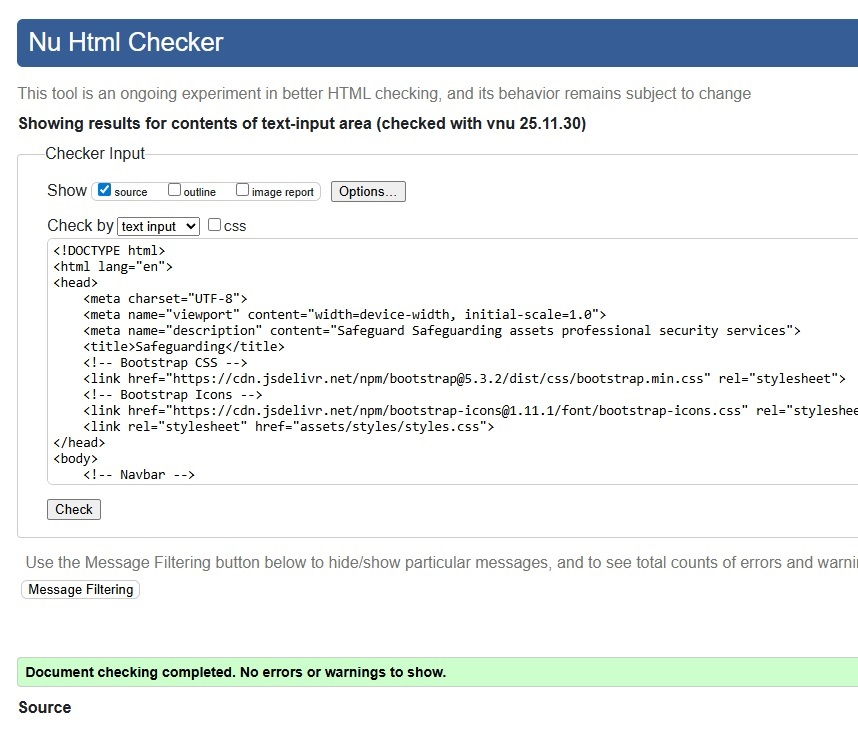
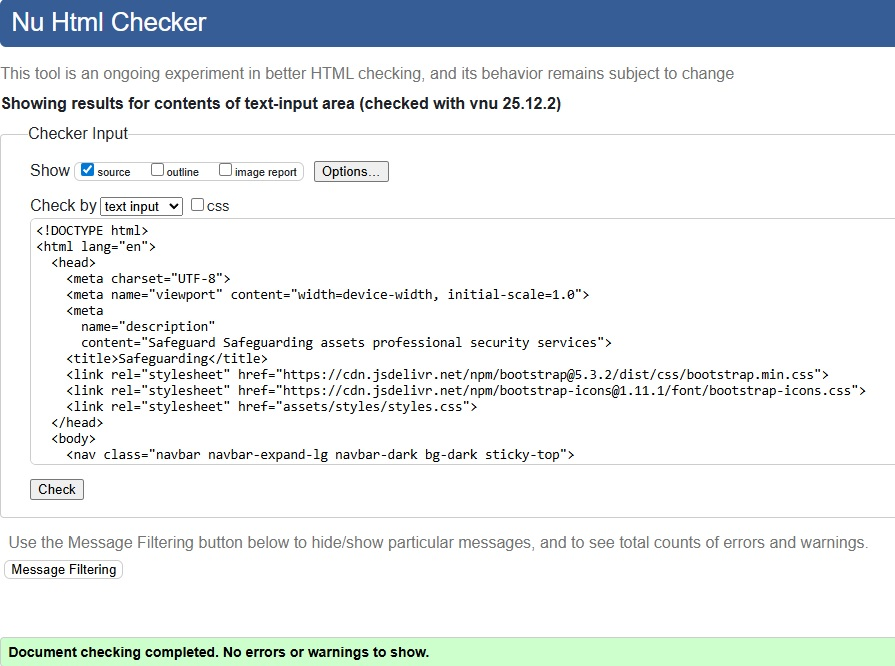
further formatting and removed the purple glow effect from the safeguarding emblem as it didn't look right

Changed region(s): [[0.0, 0.0, 1.0, 1.0], [0.8485, 0.4204, 0.9091, 0.4805], [0.7879, 0.4204, 0.8182, 0.4805]]

diff --git a/index.html b/index.html
@@ -7,11 +7,9 @@
       name="description"
       content="Safeguard Safeguarding assets professional security services">
     <title>Safeguarding</title>
-    <link
-      href="https://cdn.jsdelivr.net/npm/bootstrap@5.3.2/dist/css/bootstrap.min.css">
-    <link
-      href="https://cdn.jsdelivr.net/npm/bootstrap-icons@1.11.1/font/bootstrap-icons.css">
-    <link rel="stylesheet" href="assets/styles/styles.css" />
+    <link rel="stylesheet" href="https://cdn.jsdelivr.net/npm/bootstrap@5.3.2/dist/css/bootstrap.min.css">
+    <link rel="stylesheet" href="https://cdn.jsdelivr.net/npm/bootstrap-icons@1.11.1/font/bootstrap-icons.css">
+    <link rel="stylesheet" href="assets/styles/styles.css">
   </head>
   <body>
     <nav class="navbar navbar-expand-lg navbar-dark bg-dark sticky-top">
@@ -28,7 +26,8 @@
           aria-controls="navbarNav"
           aria-expanded="false"
           aria-label="Toggle navigation">
-          <span class="navbar-toggler-icon"></span>
+          <span class="navbar-toggler-icon">
+          </span>
         </button>
         <div class="collapse navbar-collapse" id="navbarNav">
           <ul class="navbar-nav ms-auto">
@@ -188,7 +187,7 @@
               <img
                 src="assets/images/safeguarding.png"
                 alt="Safeguarding symbol"
-                class="img-fluid rounded shadow img-shadow"
+                class="img-fluid rounded"
                 aria-label="a safeguarding symbol">
             </div>
 
@@ -441,27 +440,31 @@
               <tbody>
                 <tr>
                   <th scope="row" class="text-secondary">
-                    <i class="bi bi-geo-alt-fill"></i>
+                    <i class="bi bi-geo-alt-fill">
+                    </i>
                   </th>
-                  <td>123 Security Street<br />London, UK EC1A 1BB</td>
+                  <td>123 Security Street<br>London, UK EC1A 1BB</td>
                 </tr>
                 <tr>
                   <th scope="row" class="text-secondary">
-                    <i class="bi bi-telephone-fill"></i>
+                    <i class="bi bi-telephone-fill">
+                    </i>
                   </th>
                   <td>+44 20 1234 5678</td>
                 </tr>
                 <tr>
                   <th scope="row" class="text-secondary">
-                    <i class="bi bi-envelope-fill"></i>
+                    <i class="bi bi-envelope-fill">
+                    </i>
                   </th>
                   <td>info@safeguarding.com</td>
                 </tr>
                 <tr>
                   <th scope="row" class="text-secondary">
-                    <i class="bi bi-clock-fill"></i>
+                    <i class="bi bi-clock-fill">
+                    </i>
                   </th>
-                  <td>Mon-Fri: 9am - 6pm<br />Sat: 10am - 4pm</td>
+                  <td>Mon-Fri: 9am - 6pm<br>Sat: 10am - 4pm</td>
                 </tr>
               </tbody>
             </table>
@@ -505,7 +508,7 @@
 
         <div class="row mt-4">
           <div class="col-12 text-center">
-            <hr class="border-secondary" />
+            <hr class="border-secondary">
             <p class="mb-0">
               &copy; 2025 Safeguard Assets. All rights reserved.
             </p>
